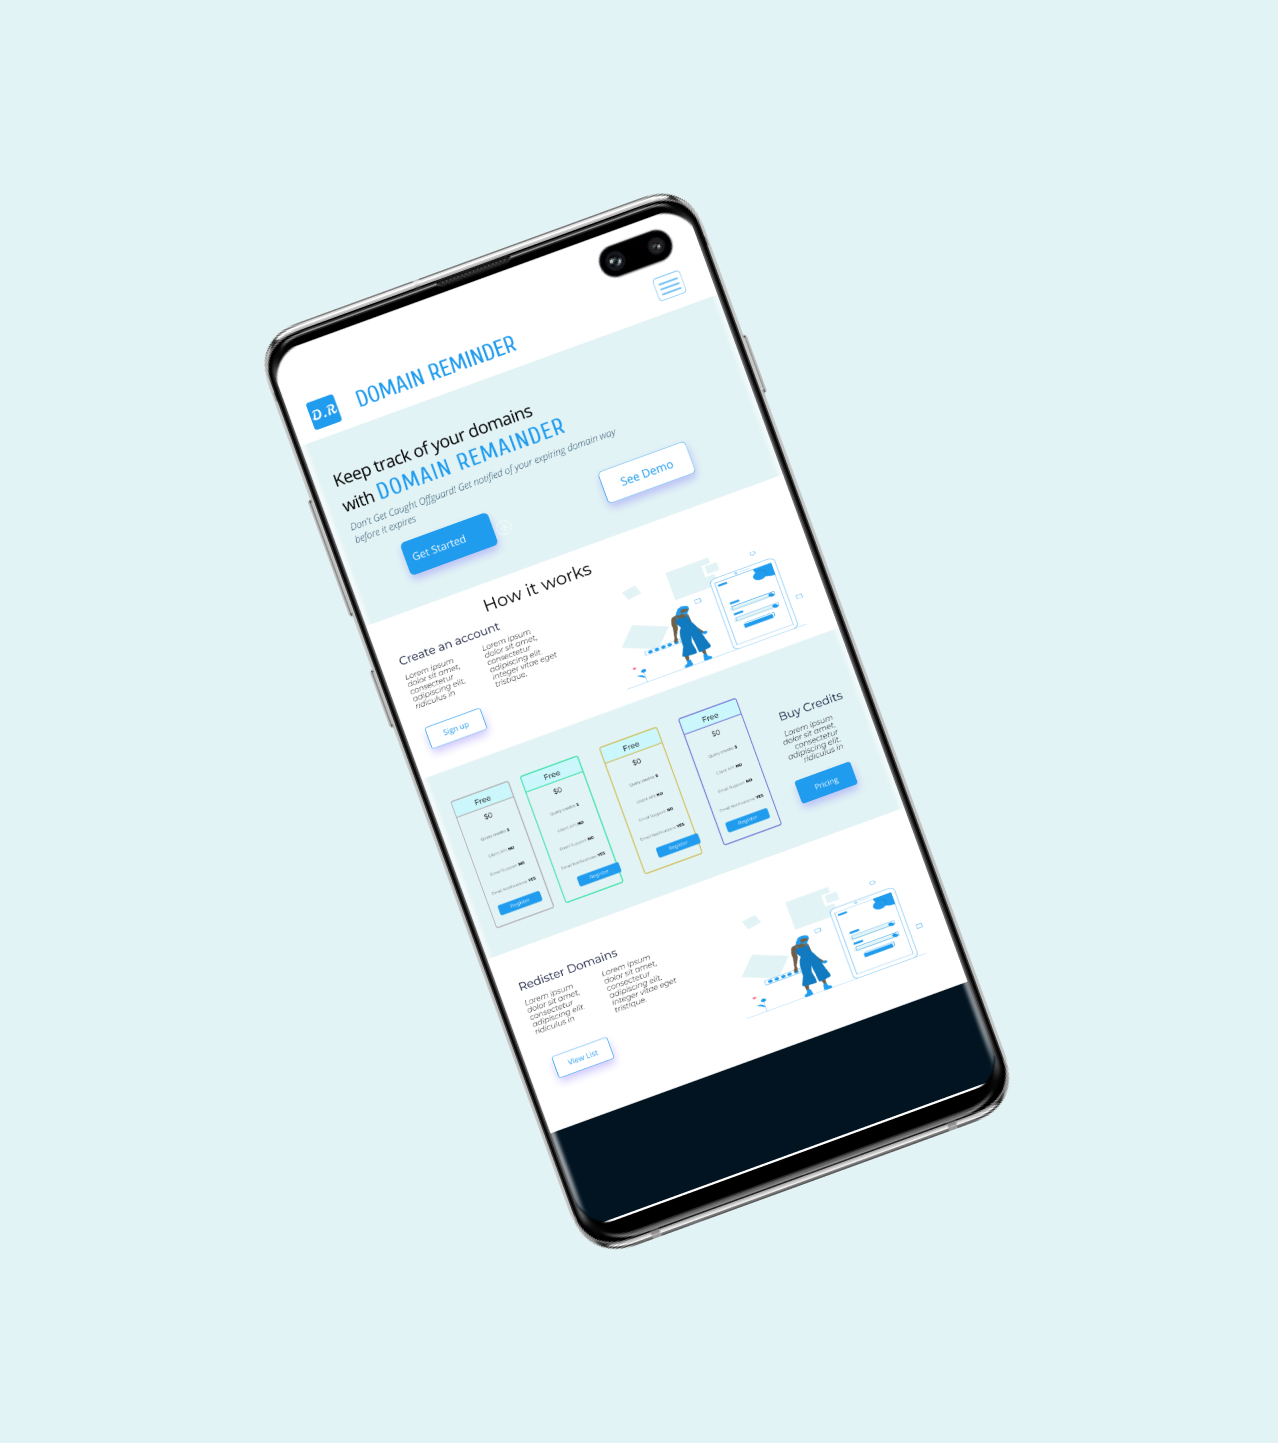
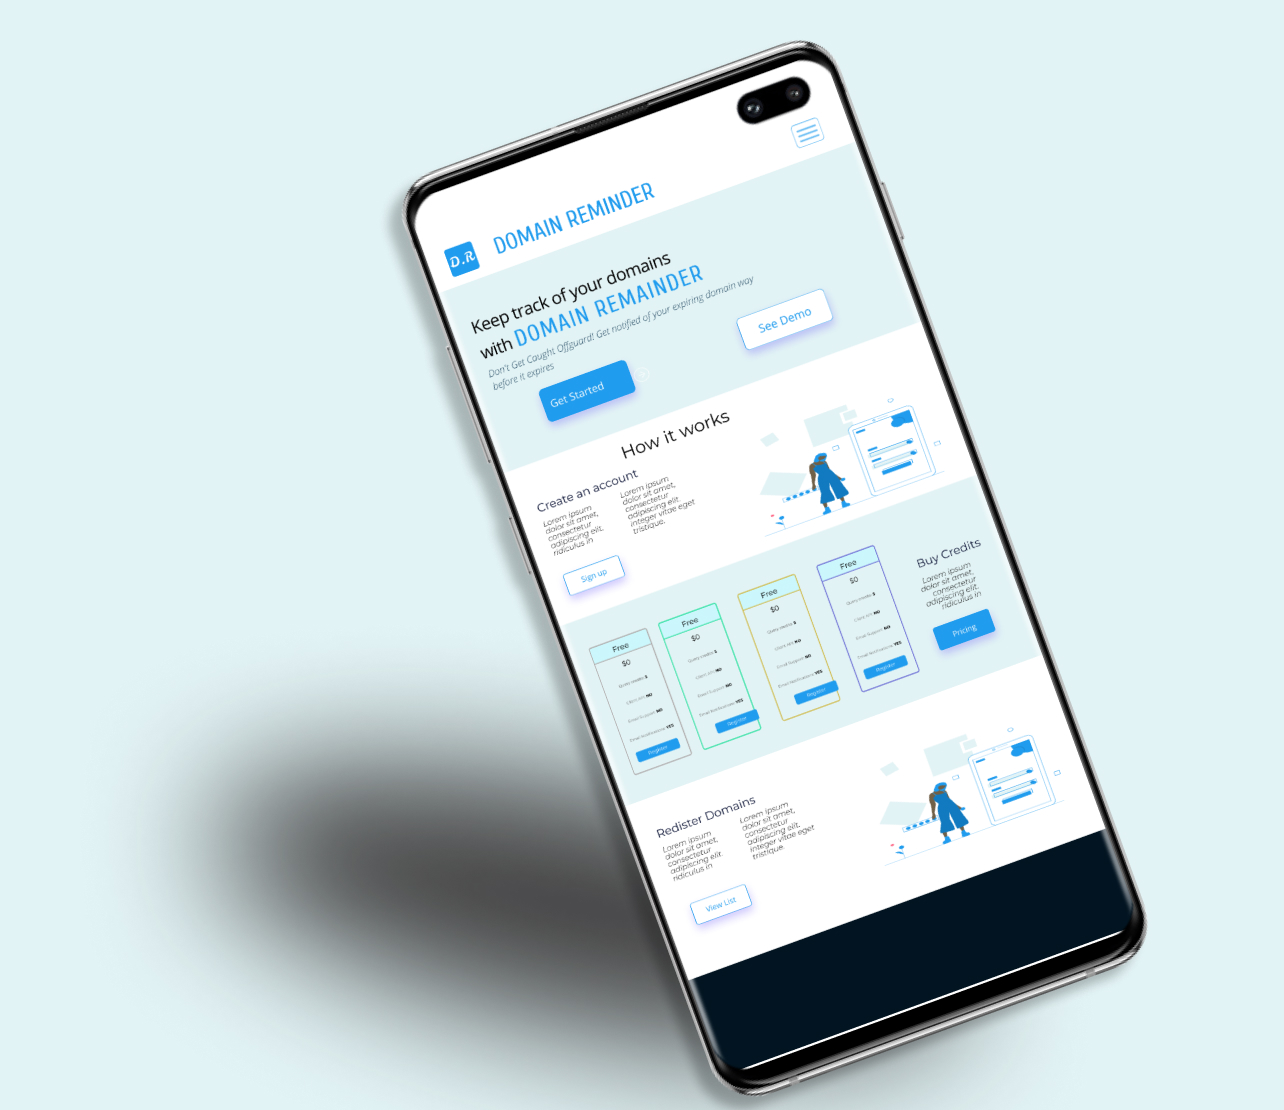
Second and third section is ready, yay!

diff --git a/base/css/index.css b/base/css/index.css
@@ -107,7 +107,7 @@ nav>ul{
 .topMainRight>img{
     position: absolute;
     left: 832px;
-    top: 80px;
+    top: 68px;
     width: 700px;
     height: 700px;
 }
@@ -140,12 +140,216 @@ nav>ul{
     color: #02416A;
     cursor: pointer;
 }
+.secondMain{
+    float: left;
+    width: 90%;
+    height: 100vh;
+    margin: 0% 5% 0% 5%;
+}
 .secondMain>p{
     text-align: center;
-    font-size: 36px;
-    font-family: 'Montserrat';
+    font-weight: bold;
+    font-size: 32px;
+    font-family: 'Montserrat';  
 }
 .signUp:hover{
     background-color: #02416A;
     cursor: pointer;
+}
+.secondMain>aside{
+    margin-top: 5%;
+    float: left;
+    width: 50%;
+}
+.secondMainLeft{
+    float: left;
+    width: 50%;
+}
+.secondMainLeft>p{
+    font-size: 32px;
+    font-family: 'Open Sans';
+    color: #209CEE;
+}
+.smallerText{
+    float: right;
+    width: 49%;
+    margin-right: 1%;
+    display: inline-flex;
+    justify-content: space-between;
+    font-size: 16px;
+    line-height: 25px;
+    font-family: 'Montserrat';
+}
+.thirdMain{
+    float: left;
+    width: 100%;
+    height: 100vh;
+    background-color: #E2F3F5;
+    display: flex;
+    justify-content: center;
+    align-items: center;
+    min-height: 100vh;
+}
+.thirdMainLeft{
+    margin: 0% 5% 0% 3%;
+    width: 90%;
+    position: relative;
+    display: flex;
+    justify-content: space-around;
+    align-items: center;
+    font-family: 'Open Sans';
+}
+.pricing{
+    display: inline-flex;
+    float: right;
+    flex-direction: column;
+    justify-content: flex-end;
+    width: 20%;
+    color: #209CEE;
+    margin-top: -400px;
+    font-size: 32px;
+}
+.smallerText2{
+
+    display: inline-flex;
+    float: right;
+    flex-direction: row;
+    justify-content: flex-end;
+    margin-top: -200px;
+    width: 20%;
+}
+.thirdMainLeft .card{
+    position: relative;
+    width: 30%;
+    cursor: pointer;
+}
+.thirdMainLeft .card .name{
+    position: relative;
+    padding: 10px 0;
+    text-align: center;
+    z-index: 1;
+    margin-left: 5%;
+}
+.thirdMainLeft .card .name>h2{
+    font-weight: 500;
+    font-size: 1.5em;
+    
+}
+.thirdMainLeft .card .name>p{
+    font-size: 18px;
+}
+.thirdMainLeft .card .details{
+    position: relative;
+    text-align: center;
+    height: 0px;
+    top: -2px;
+    transition: 0.5s;
+    border: 2px solid #000;
+    margin-top: -2px;
+    overflow: hidden;
+    margin-left: 5%;
+}
+.thirdMainLeft .card .details .content{
+    position: relative;
+    padding: 10% 5%;
+}
+.thirdMainLeft .card .details .content>h2{
+    font-size: 36px;
+    font-weight: 500;
+}
+.thirdMainLeft .card .details .content>h2>span{
+    font-size: 20px;
+}
+.thirdMainLeft .card .details .content>a{
+    position: relative;
+    display: inline-block;
+    padding: 2.5% 5%;
+    margin-top: 15px;
+    background: #209CEE;
+    border-radius: 5px;
+    width: 80%;
+    color: #fff;
+    text-decoration: none;
+}
+.thirdMainLeft .card:nth-child(1) .name{
+    background: #CCF7FC;
+    border: 2px solid #AEAAAA;
+    box-sizing: border-box;
+    border-radius: 5px 5px 5px 5px;
+}
+.thirdMainLeft .card:nth-child(1):hover .name{
+    border-radius: 5px 5px 0 0;
+}
+.thirdMainLeft .card:nth-child(1) .details{
+    border: 2px solid #AEAAAA;
+    box-sizing: border-box;
+    border-radius: 0 0 5px 5px;
+}
+.thirdMainLeft .card:nth-child(1):hover .details{
+    border: 2px solid #AEAAAA;
+    box-sizing: border-box;
+    border-radius: 5px;
+    height: 380px;
+}
+.thirdMainLeft .card:nth-child(2) .name{
+    background: #CCF7FC;
+    border: 2px solid #28E09E;
+    box-sizing: border-box;
+    border-radius: 5px 5px 5px 5px;
+}
+.thirdMainLeft .card:nth-child(2):hover .name{
+    border-radius: 5px 5px 0 0;
+}
+.thirdMainLeft .card:nth-child(2) .details{
+    background: #E2F3F5;
+    border: 2px solid #28E09E;
+    box-sizing: border-box;
+    border-radius: 5px;   
+}
+.thirdMainLeft .card:nth-child(2):hover .details{
+    border: 2px solid #28E09E;
+    box-sizing: border-box;
+    border-radius: 5px;
+    height: 380px;
+}
+.thirdMainLeft .card:nth-child(3) .name{
+    background: #CCF7FC;
+    border: 2px solid #CFB946;
+    box-sizing: border-box;
+    border-radius: 5px 5px 5px 5px;
+}
+.thirdMainLeft .card:nth-child(3):hover .name{
+    border-radius: 5px 5px 0 0;
+}
+.thirdMainLeft .card:nth-child(3) .details{
+    background: #E2F3F5;
+    border: 2px solid #CFB946;
+    box-sizing: border-box;
+    border-radius: 5px;     
+}
+.thirdMainLeft .card:nth-child(3):hover .details{
+    border: 2px solid #CFB946;
+    box-sizing: border-box;
+    border-radius: 5px;
+    height: 380px;
+}
+.thirdMainLeft .card:nth-child(4) .name{
+    background: #CCF7FC;
+    border: 2px solid #4340CA;
+    box-sizing: border-box;
+    border-radius: 5px 5px 5px 5px;
+}
+.thirdMainLeft .card:nth-child(4):hover .name{
+    border-radius: 5px 5px 0 0;
+}
+.thirdMainLeft .card:nth-child(4) .details{
+    background: #E2F3F5;
+    border: 2px solid #4340CA;
+    box-sizing: border-box;
+    border-radius: 5px;   
+}
+.thirdMainLeft .card:nth-child(4):hover .details{
+    box-sizing: border-box;
+    border-radius: 5px;
+    height: 380px;
 }

diff --git a/index.html b/index.html
@@ -23,7 +23,7 @@
         <div class="signUp">Sign Up</div>
     </header>
     <main>
-        <div class="topMain">
+        <section class="topMain">
             <div class="topMainLeft">
                 <p>Keep track of your domains with <span>domain reminder</span></p>
                 <small>Don't get caught offguard! Get notified of your expiring domain,
@@ -34,11 +34,87 @@
             <div class="topMainRight">
                 <img src="base/images/Frame 1.jpg">
             </div>
-        </div>
-        <div class="secondMain"><p>How it works</p>
-            <div class="secondMainLeft">
-                <p>Create an account</p></div>
-        </div>
+        </section>
+        <section class="secondMain"><p>How it works</p>
+            <aside class="secondMainLeft">
+                <p>1. Create an account</p>
+            <div class="smallerText">Lorem ipsum dolor sit amet, consectetur adipiscing elit. Cras interdum 
+                lobortis nibh integer tempus vitae, eget tristique. 
+                Lorem ipsum dolor sit amet, consectetur adipiscing elit. Cras interdum 
+                lobortis nibh integer tempus vitae, eget tristique.
+            </div>
+            <div class="smallerText">Lorem ipsum dolor sit amet, consectetur adipiscing elit. Cras interdum 
+                lobortis nibh integer tempus vitae, eget tristique.
+                Lorem ipsum dolor sit amet, consectetur adipiscing elit. Cras interdum 
+                lobortis nibh integer tempus vitae, eget tristique.
+            </div>
+            <div class="seeDemo">Sign Up</div>
+        </aside>
+    </section>
+    <section class="thirdMain">
+        <aside class="thirdMainLeft">
+            
+            <div class="card">
+                <div class="name">
+                    <p>Free</p>
+                </div>
+                <div class="details">
+                    <div class="content">
+                        <h2>$0<span>/month</span></h2>
+                        <p>Lorem ipsum dolor sit amet, consectetur adipiscing elit. Cras interdum 
+                            lobortis nibh integer tempus vitae, eget tristique.</p>
+                        <a href="#">Register</a>
+                    </div>
+                </div>
+            </div>
+            <div class="card">
+                <div class="name">
+                    <p>Basic</p>
+                </div>
+                <div class="details">
+                    <div class="content">
+                        <h2>$10<span>/month</span></h2>
+                        <p>Lorem ipsum dolor sit amet, consectetur adipiscing elit. Cras interdum 
+                            lobortis nibh integer tempus vitae, eget tristique.</p>
+                        <a href="#">Pay Now</a>
+                    </div>
+                </div>
+            </div>
+            <div class="card">
+                <div class="name">
+                    <p>Medium</p>
+                </div>
+                <div class="details">
+                    <div class="content">
+                        <h2>$150<span>/month</span></h2>
+                        <p>Lorem ipsum dolor sit amet, consectetur adipiscing elit. Cras interdum 
+                            lobortis nibh integer tempus vitae, eget tristique.</p>
+                        <a href="#">Try Now</a>
+                    </div>
+                </div>
+            </div>
+            <div class="card">
+                <div class="name">
+                    <p>Pro</p>
+                </div>
+                <div class="details">
+                    <div class="content">
+                        <h2>$180<span>/month</span></h2>
+                        <p>Lorem ipsum dolor sit amet, consectetur adipiscing elit. Cras interdum 
+                            lobortis nibh integer tempus vitae, eget tristique.</p>
+                        <a href="#">Try Now</a>
+                    </div>
+                </div>
+            </div>
+            <div class="pricing">2. Pricing</div>
+            <span class="smallerText2">Lorem ipsum dolor sit amet, consectetur adipiscing elit. Cras interdum 
+                lobortis nibh integer tempus vitae, eget tristique.
+                Lorem ipsum dolor sit amet, consectetur adipiscing elit. Cras interdum 
+                lobortis nibh integer tempus vitae, eget tristique.
+                Lorem ipsum dolor sit amet, consectetur adipiscing elit. Cras interdum 
+                lobortis nibh integer tempus vitae, eget tristique.</span>
+        </aside>
+    </section>
     </main>
 </body>
 </html>
